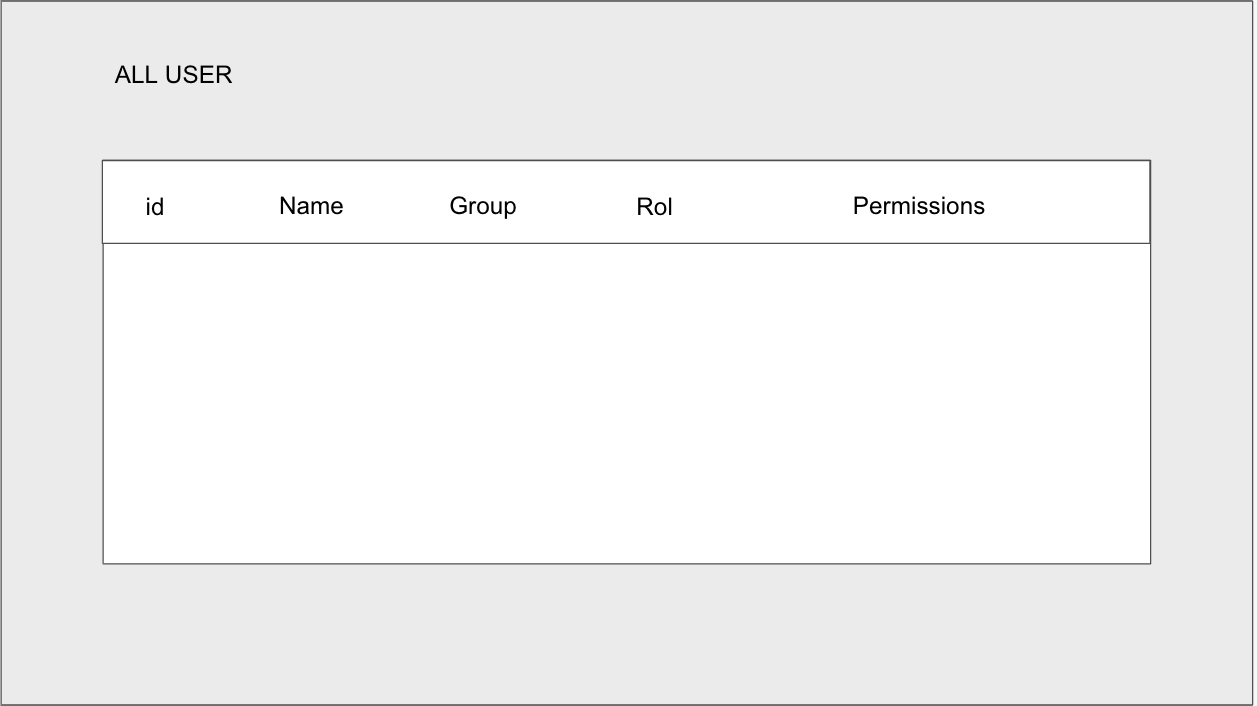
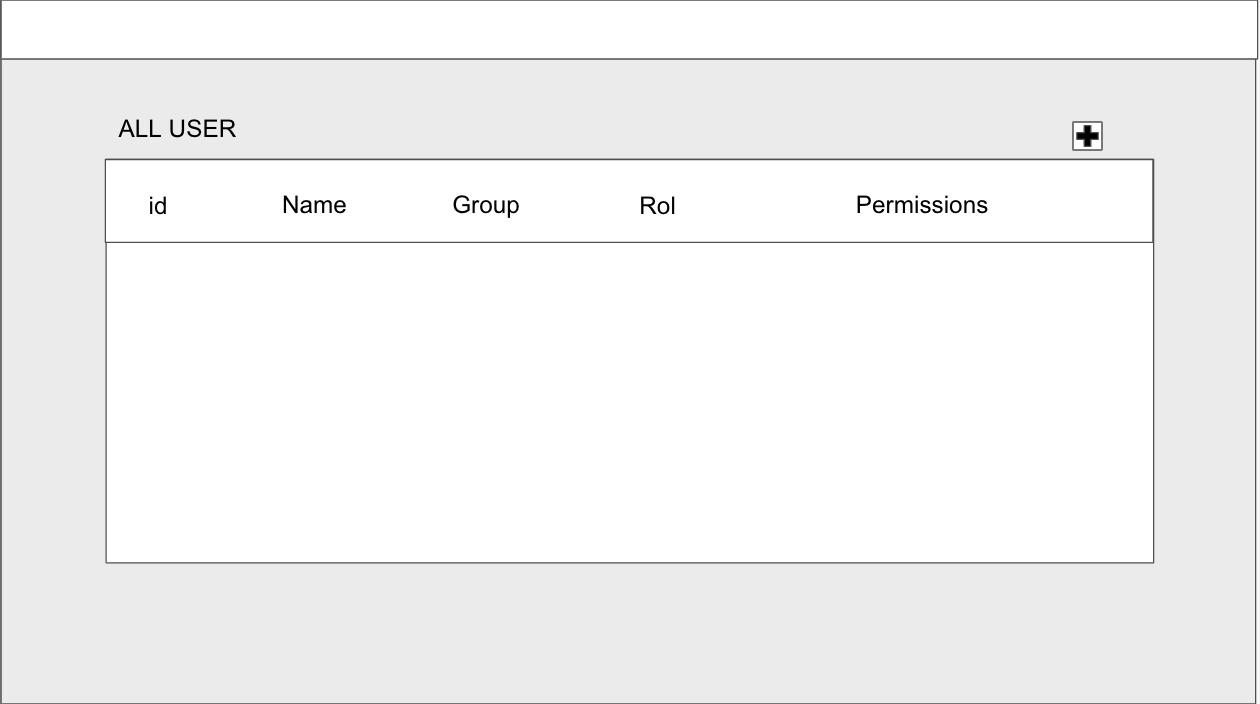
agregando cambios de test

diff --git a/server.js b/server.js
@@ -2,8 +2,11 @@ const express = require('express');
 const app = express();
 const port = 3000;
 const cors = require('cors');
+const body_parser = require('body-parser');
 
 app.use(cors());
+app.use(body_parser.urlencoded({extended:false}));
+app.use(body_parser.json());
 
 //solicitud get para la tabla
 app.get( '/', (req, res)=>{
@@ -31,6 +34,27 @@ app.get( '/:id', (req,res)=>{
     }) 
     res.status(200).send(body)
 });
+
+//CREATE ELEMENT
+app.post('/create', (req,res) => {
+    try{
+        const {name, rol, group, permissions} = req.body;
+        const id = Math.floor(Math.random() * 100);
+        const new_obj = {
+            id,
+            name,
+            rol,
+            group,
+            permissions
+        }
+        const json = require('./data/tabla.json');
+        console.log(json)
+        json.data.push(new_obj);
+        res.status(200).send(json);
+    }catch(err){
+        res.status(400).send('Bad Request');
+    }
+})
 
 app.listen(port, ()=>{
     console.log('Server Listen in port:' + port);

diff --git a/README.md b/README.md
@@ -1,4 +1,3 @@
-
 ![](https://elcandelerotecnologico.files.wordpress.com/2020/06/varios_logo_digital-virgo.jpg?w=410)
 
 Test Front-END
@@ -24,12 +23,23 @@ Se evaluara:
 `$ npm start`
 
 esto lanzara un servidor en local en node que esta escuchando en localhost:3000
-este servidor devolvera los datos que son necesarion.
-
+este servidor devolvera los datos que son necesarion. 
 
 ####Pagina inicial
 Constara de una tabla que va a enlistar los datos servidos por el back-end,
 se podra hacer click en cualquier parte de la fila de la tabla que ejecutara un redirect a la segunda pagina donde mostrar informacion mas detallada.
+
+####Modal
+
+En la pagina principal, se debara agregar un boton que esto desplegara un modal, con uan serie de inputs, para rellenar información y una lista de 3 elementos con un checkbox para hacer una peticion POST a back-end para generar un nuevo elemento.
+
+la estrucutra de envio de datos es:
+data = {
+"name":"string",
+"group":"string",
+"rol":"string,
+"permissions": [   ]
+}
 
 
 ####Pagina Detalle
@@ -37,4 +47,3 @@ Constara de dos elementos,  una franja en el lateral izquierdo donde se imprimer
 luego en la parte central se imprimira una tabla con la información restante.
 
 **nota:** las imagenes de cada pnatalla las encontraras en la carpeta de assets del proyecto
-
